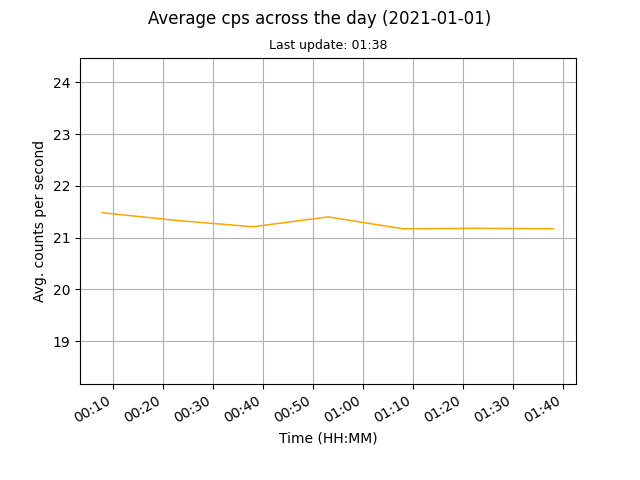
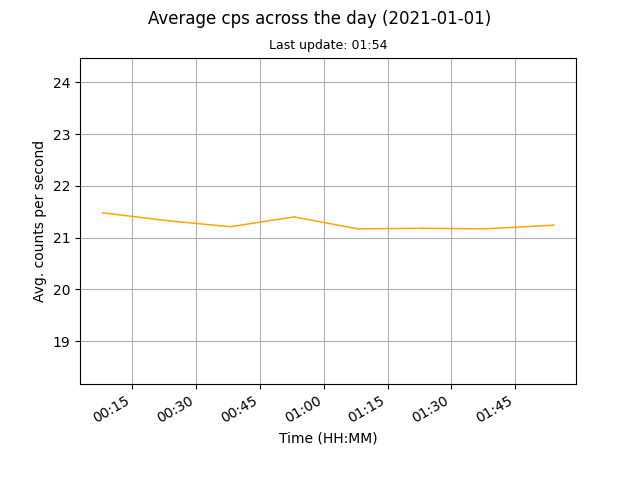
auto data update

diff --git a/docs/index.html b/docs/index.html
@@ -45,8 +45,8 @@
 	
 	<br>
 	
-	<p>Current counts per second (cps): 21.17</p>
-	<p>Last update: 2021-01-01, 01:39</p>
+	<p>Current counts per second (cps): 21.24</p>
+	<p>Last update: 2021-01-01, 01:54</p>
 
 	<p><a href="images/monthly.png"><img src="images/monthly.png" alt="Mothly avg cps data"></a><a href="images/daily.png"><img src="images/daily.png" alt="Daily avg cps data"></a></p>
 	
